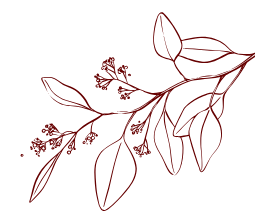
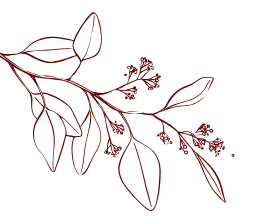
dd

diff --git a/styles.css b/styles.css
@@ -129,7 +129,7 @@ body {
   height: auto;
   display: block;
   position: absolute;
-  right: 0;
+  left: 0;
   top: 30%;
   max-width: 70%;
   width: auto;
